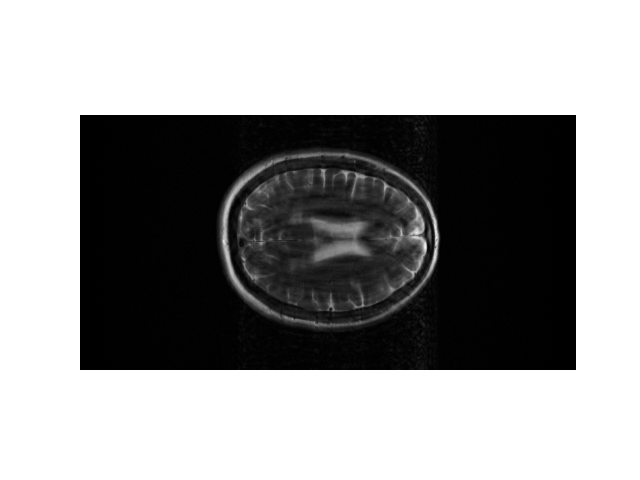
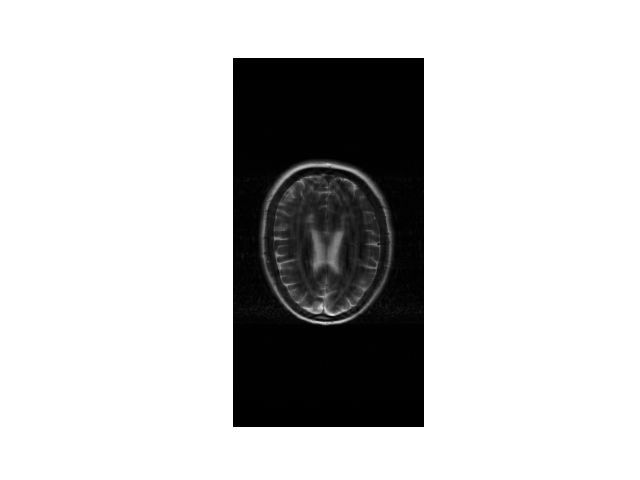
diverges again

diff --git a/my_CDLNet/sense.py b/my_CDLNet/sense.py
@@ -59,27 +59,27 @@ def main(args):
     # Detect acceleration maps
     #mask = detect_acc_mask(kspace)
     # Make an acceleration map
-    mask, _ = make_acc_mask(shape = (smaps.shape[2], smaps.shape[2]), accel = 2, acs_lines = 24)
+    _, mask = make_acc_mask(shape = (smaps.shape[1], smaps.shape[2]), accel = 2, acs_lines = 24)
     # Switch axes and send to GPU
-    smaps = smaps.permute(0, 2, 1).to(device)
+    smaps = smaps.to(device)
     # Normalize smaps for SENSE
     power = torch.sum(torch.abs(smaps)**2, dim=0, keepdim=True)
     # smaps = smaps / torch.sqrt(power + 1e-8)
-    kspace = kspace.permute(0, 2, 1).to(device) * 1e6
+    kspace = kspace.to(device) * 1e6
     mask = mask.to(device)
-
+    breakpoint()
     # Mask kspace
-    kspace_masked = torch.complex(mask[None, :, :], torch.zeros_like(mask[None, :, :])) @ kspace
+    kspace_masked = torch.complex(mask[None, :, :], torch.zeros_like(mask[None, :, :])) * kspace
     
-    gnd_truth = (mri_decoding(kspace, mask, smaps)).permute(1, 0)
+    gnd_truth = (mri_decoding(kspace, mask, smaps))
     saveimg(gnd_truth, "EHy.png")
     # Extract a slice of kspace and save it
-    kspace_from_gnd_truth = mri_encoding(gnd_truth.permute(1, 0), torch.eye(mask.shape[1], device = device), smaps)
+    kspace_from_gnd_truth = mri_encoding(gnd_truth, torch.ones(mask.shape[0], mask.shape[1], device = device), smaps)
     breakpoint()
     mri_recon, tol_reached = sense(kspace_masked, mask, smaps, verbose = True)
 
-    zero_filled_recon = mri_decoding(kspace_masked, mask, smaps).permute(1,0)
-    mri_recon = mri_recon.permute(1,0)
+    zero_filled_recon = mri_decoding(kspace_masked, mask, smaps)
+    mri_recon = mri_recon
     breakpoint()
     saveimg(zero_filled_recon, "test_zerofilled.png")
     saveimg(mri_recon, "test_sense.png")

diff --git a/my_CDLNet/mri_utils.py b/my_CDLNet/mri_utils.py
@@ -22,7 +22,7 @@ def mri_encoding(x, acceleration_map, smaps):
     y_coils = fft.fft2(x_coils, norm = 'ortho')
     # y_coils is C x N x N
     mask = acceleration_map
-    y_mask = torch.complex(mask[None, :, :], torch.zeros_like(mask[None, :, :])) @ y_coils
+    y_mask = torch.complex(mask[None, :, :], torch.zeros_like(mask[None, :, :])) * y_coils
     return y_mask
 
 
